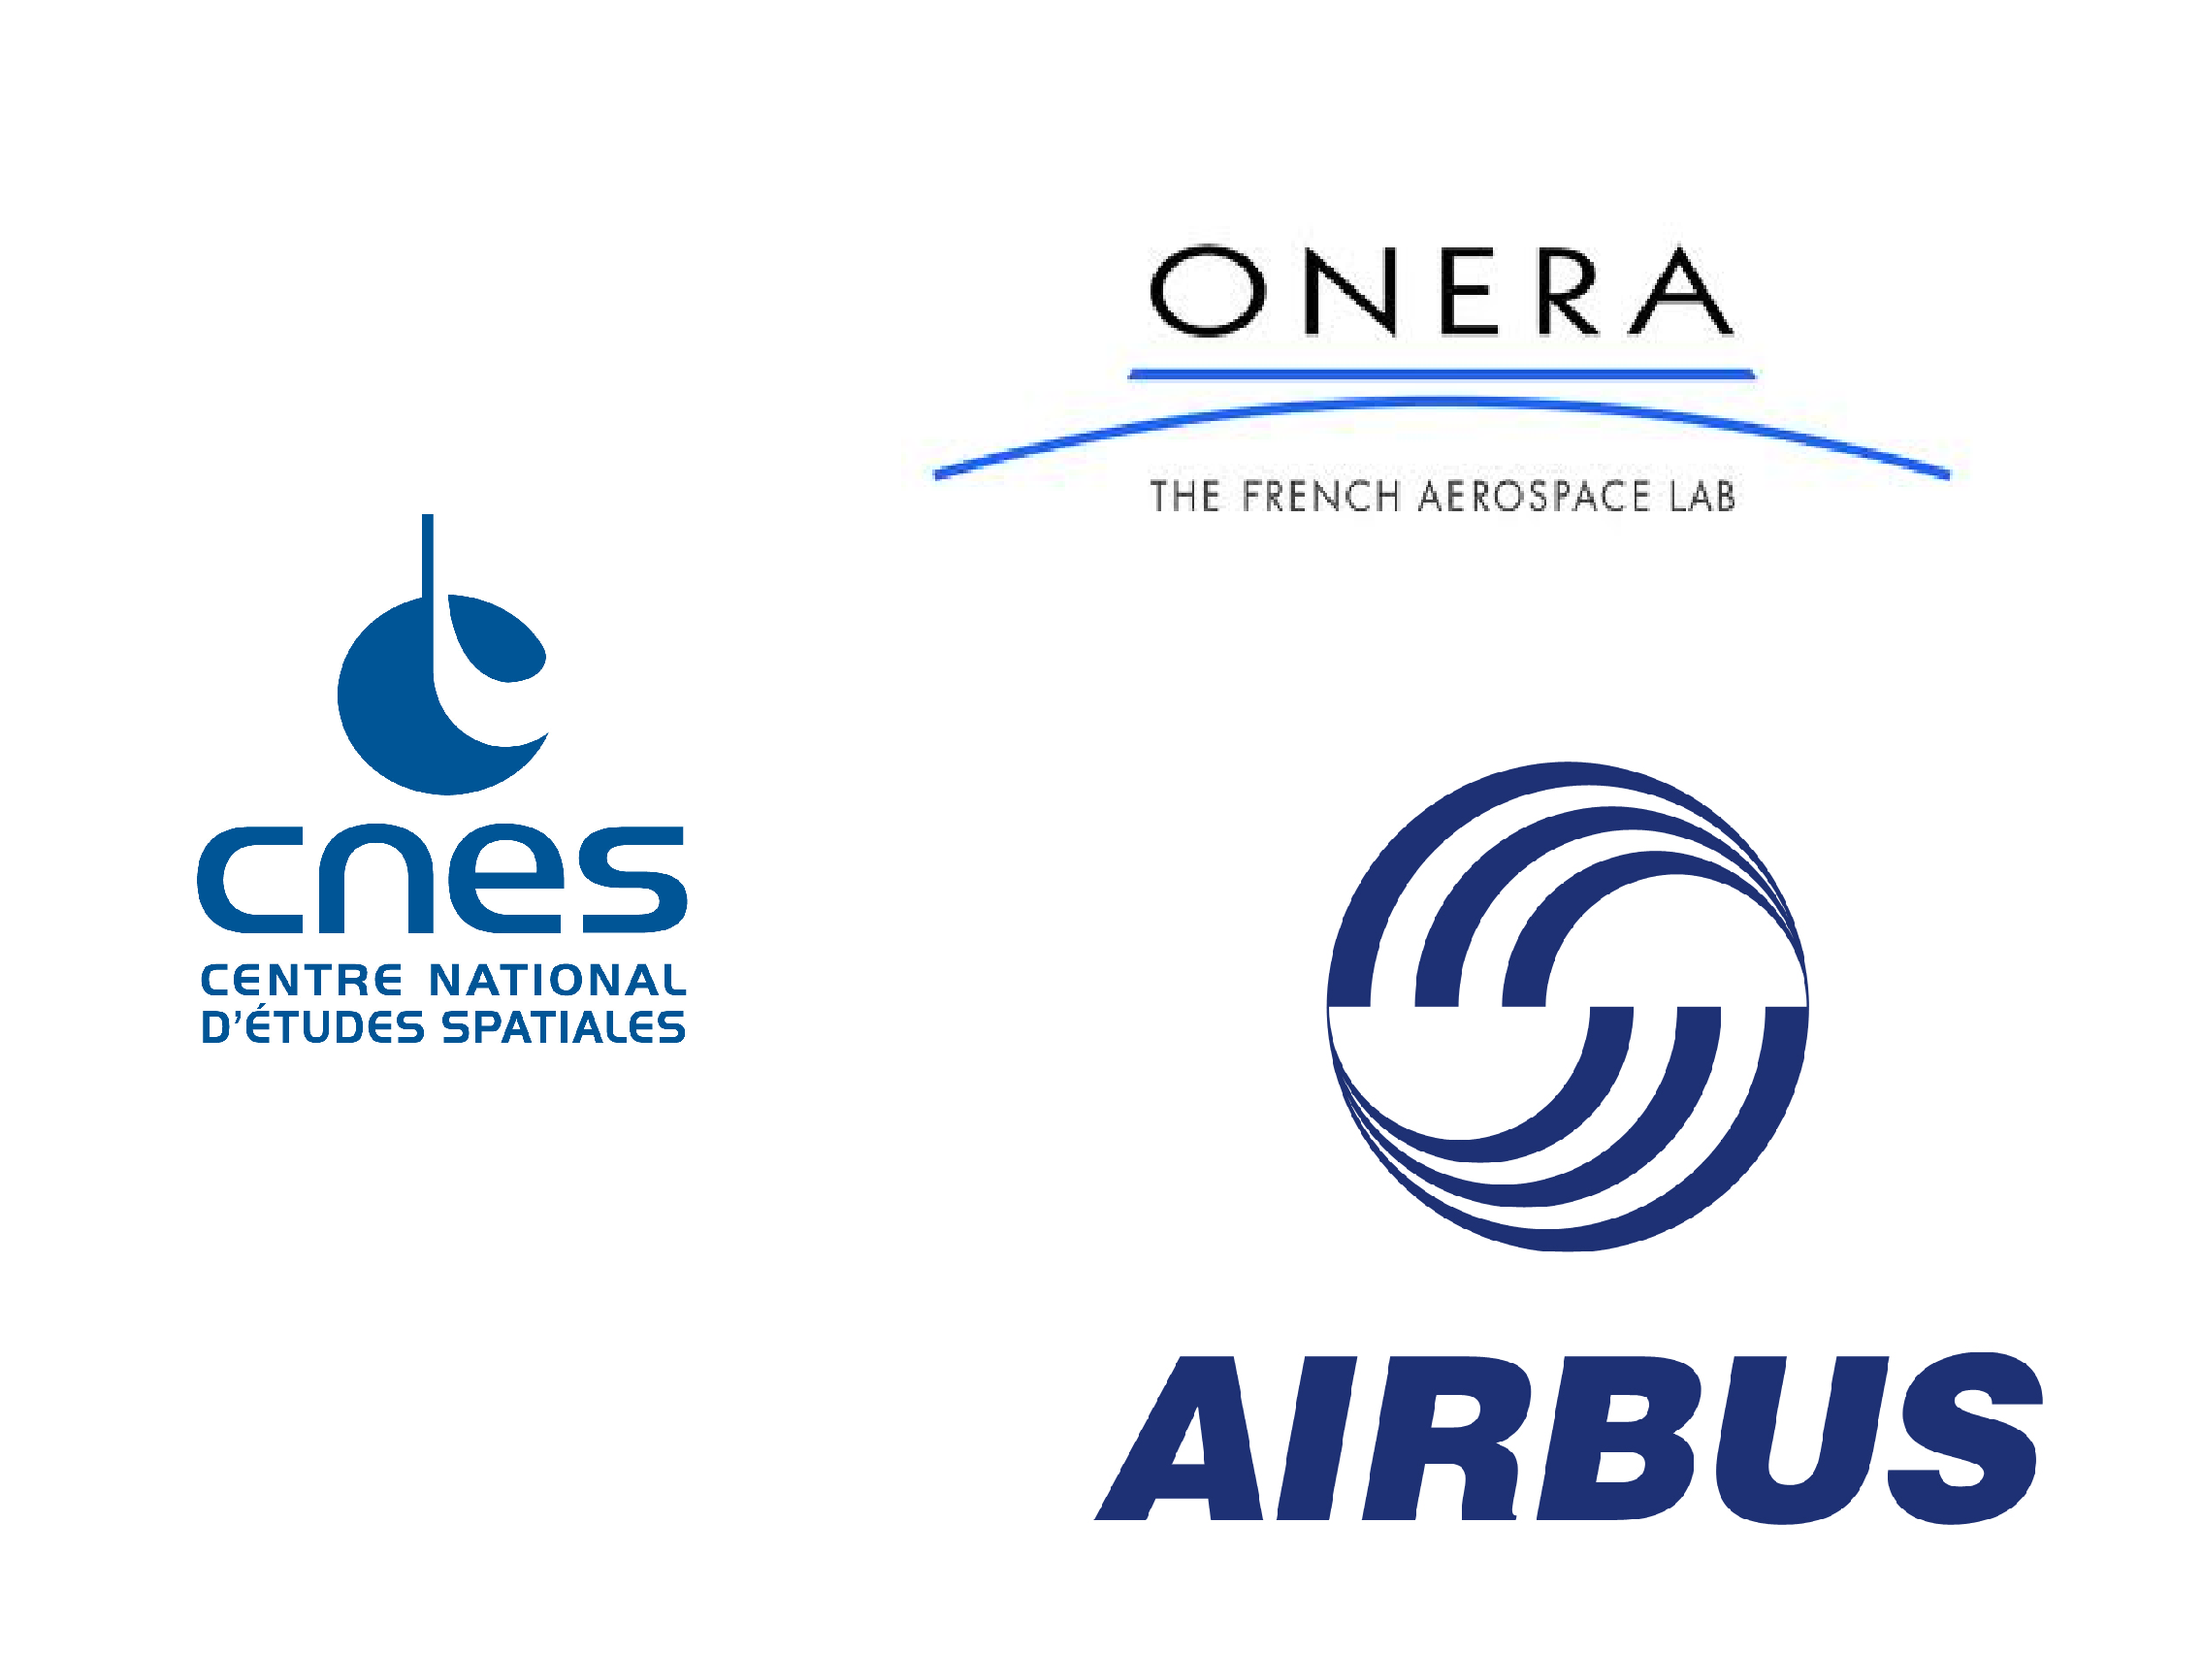
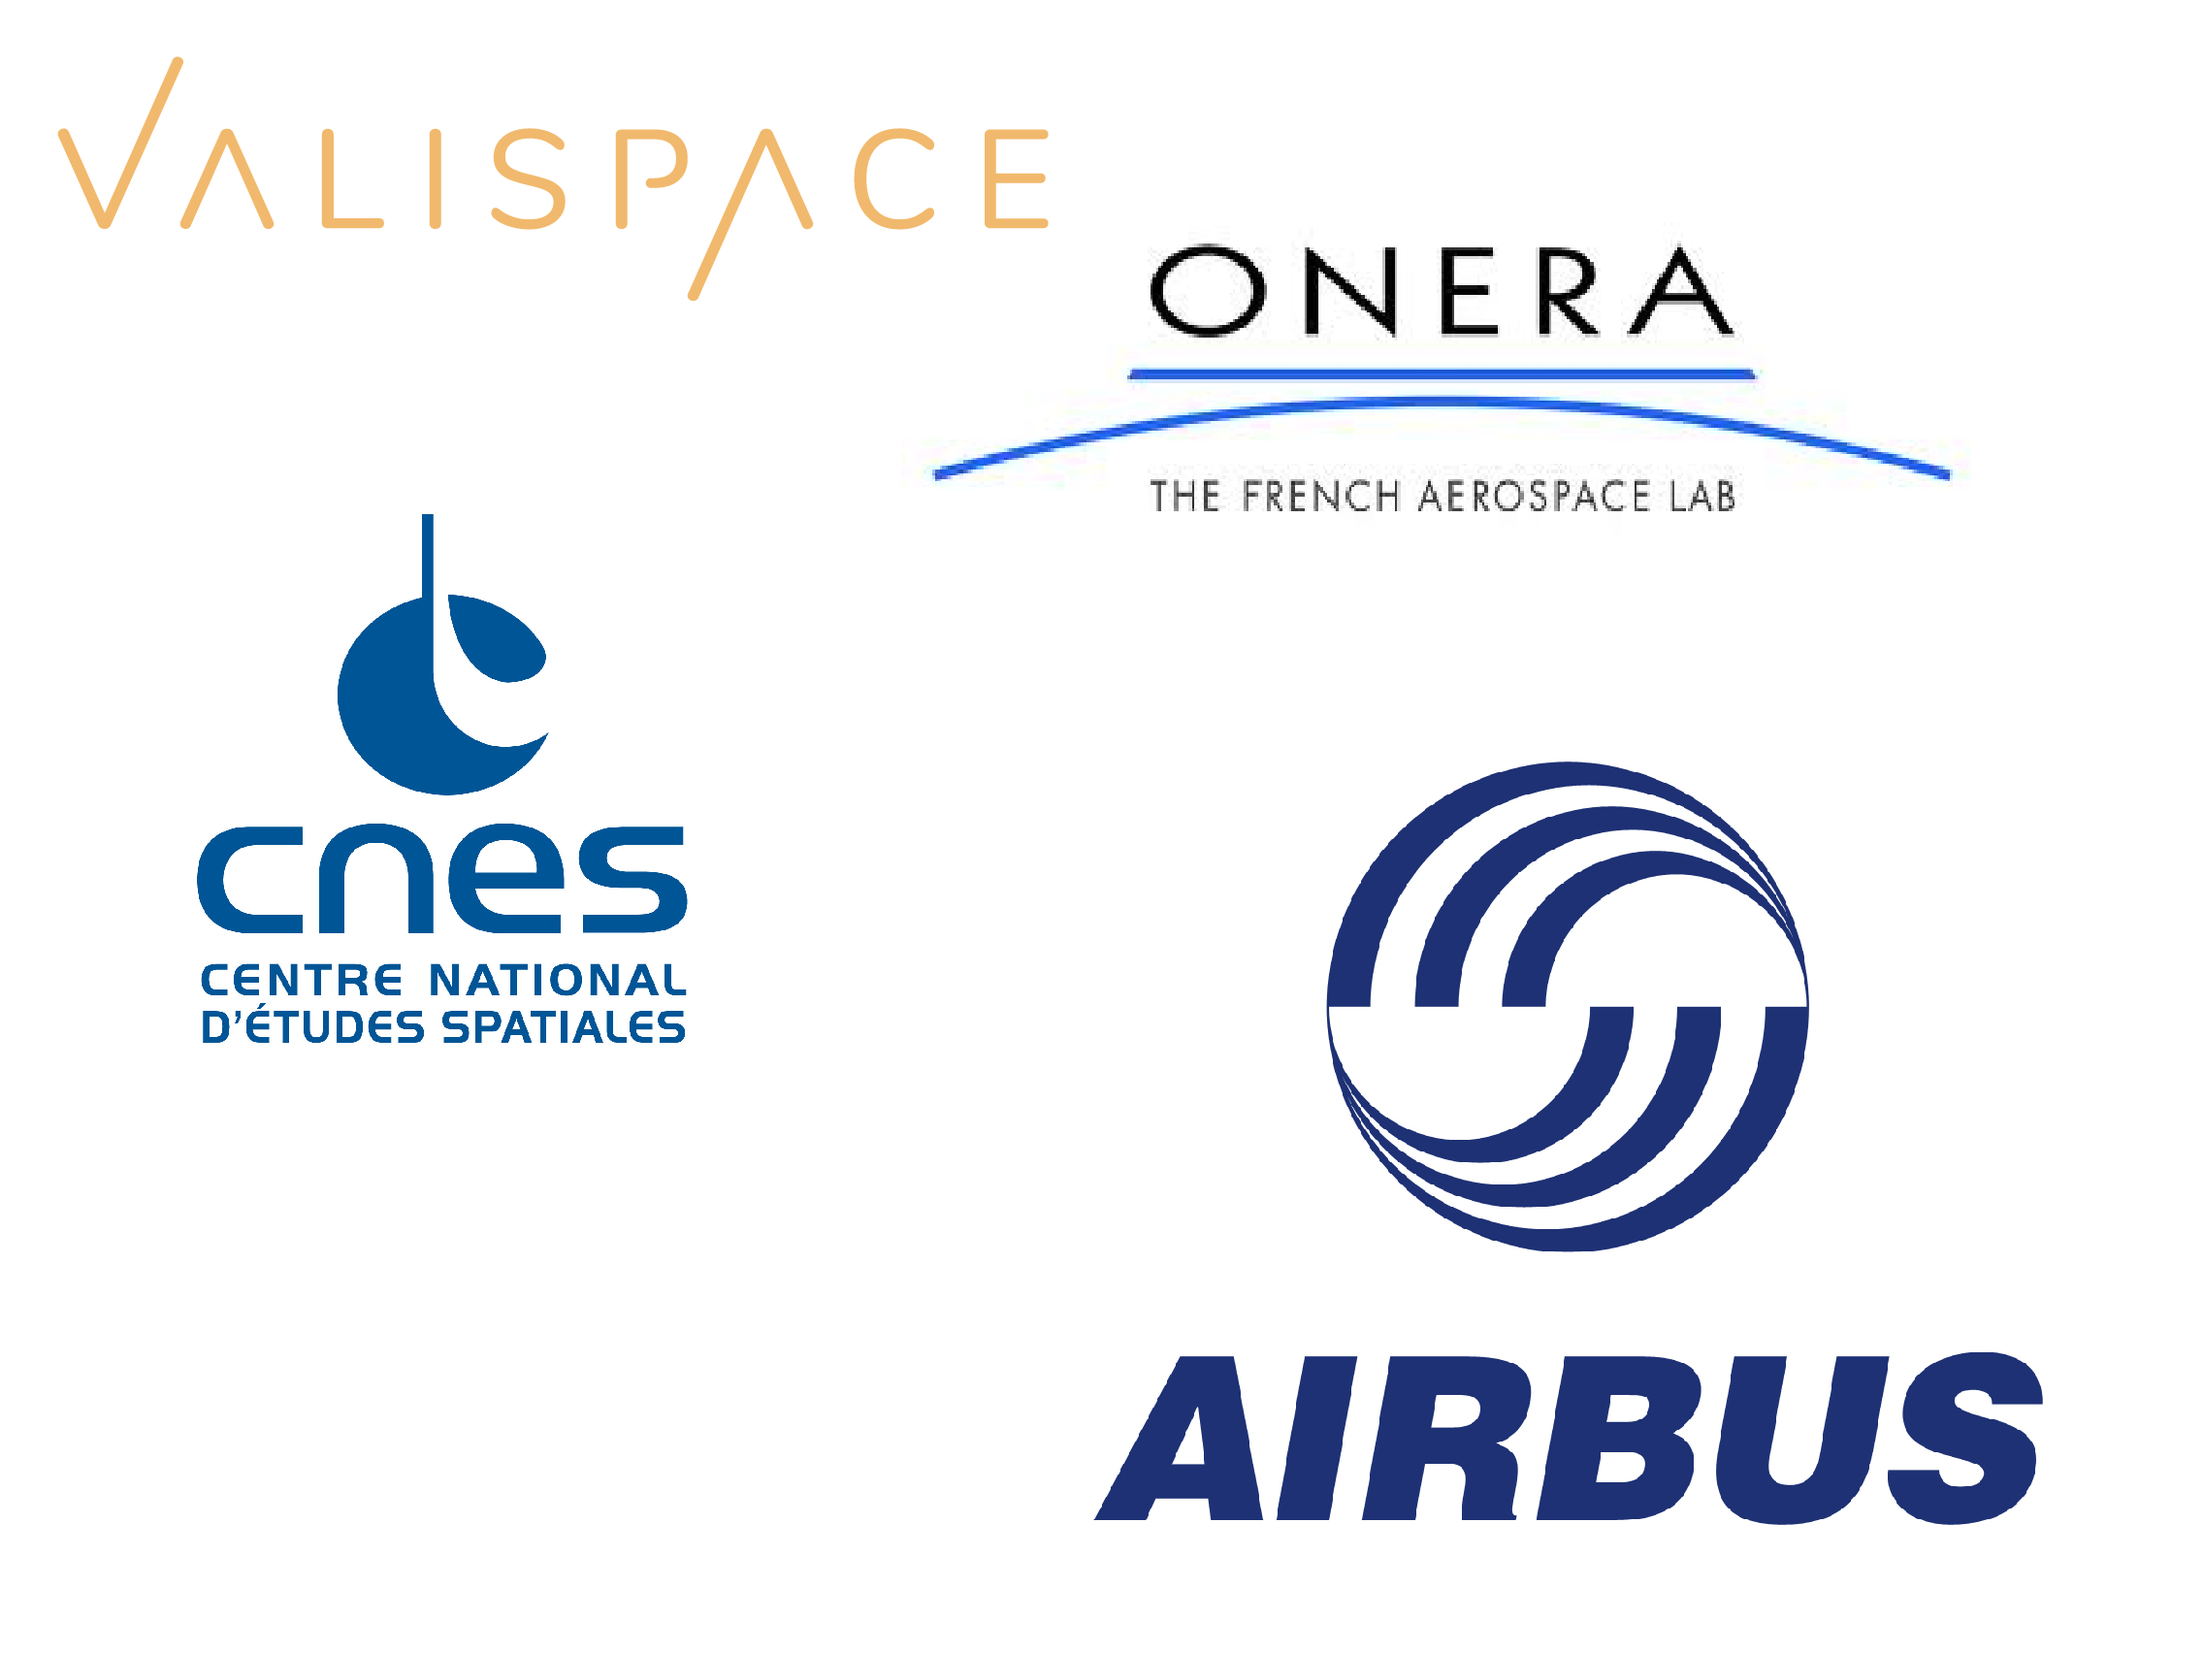
changes on the sponsor page

Changed region(s): [[0.1875, 0.0622, 0.4688, 0.1866], [0.0312, 0.0311, 0.1875, 0.1555]]

diff --git a/sponsors/index.html b/sponsors/index.html
@@ -59,13 +59,21 @@
             <span class="image main"
               ><img src="/images/baan.png" alt=""
             /></span>
+            <div>
+              <h2>Those who already trust us</h2>
             <p>
-              <span class="image fit"
-                ><img src="/images/sponsors.png" alt:""/></span
+              <span class="image fit">
+                <img src="/images/sponsors.png" alt:"" /></span
               >
             </p>
           </div>
+         
+          </div>
         </section>
+        <div class="spon">
+          If you want to follow us on that beautiful adventure, please contact us. We will be more than happy to work with you.
+
+        </div>
       </div>
 
       <!-- Contact -->

diff --git a/assets/css/main.css b/assets/css/main.css
@@ -3862,8 +3862,19 @@ input, select, textarea {
 				color: #008844;
 				background: #000;
 				opacity: 1;
-
 			  }
+
+				#main.alt  >.spon {
+					background-image: url(/images/stars.jpg);
+					font-size : 35px;
+					padding-left: 10%;
+					padding-right: 10%;
+					margin-left: 20px;
+					margin-right: 20px;
+					color:#BEB95A ;
+					font-weight: 900;
+					font-family: "Comic Sans MS", "Comic Sans", cursive;
+				}
 			
 			
 			
